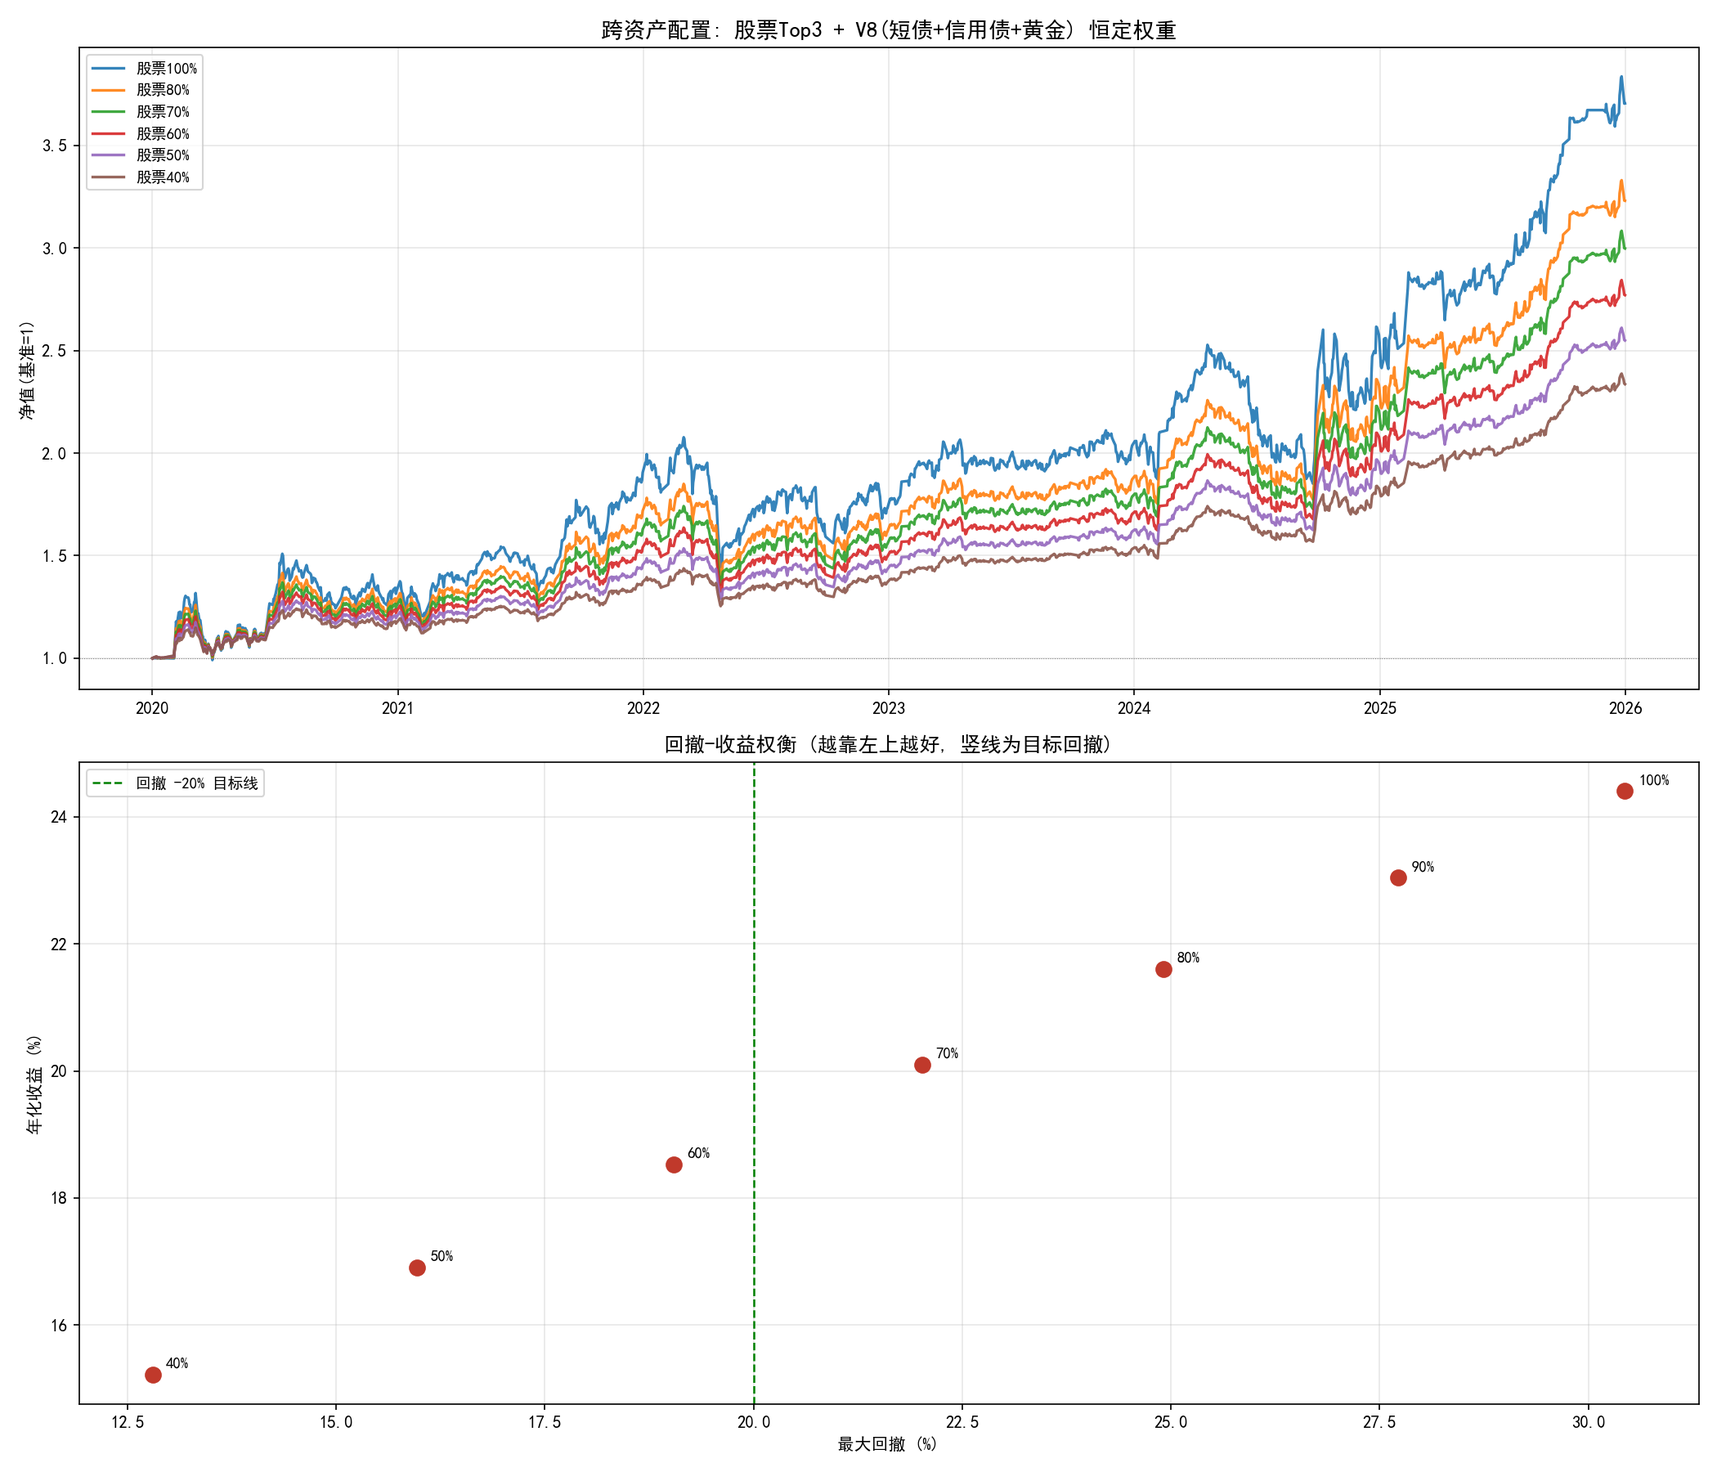
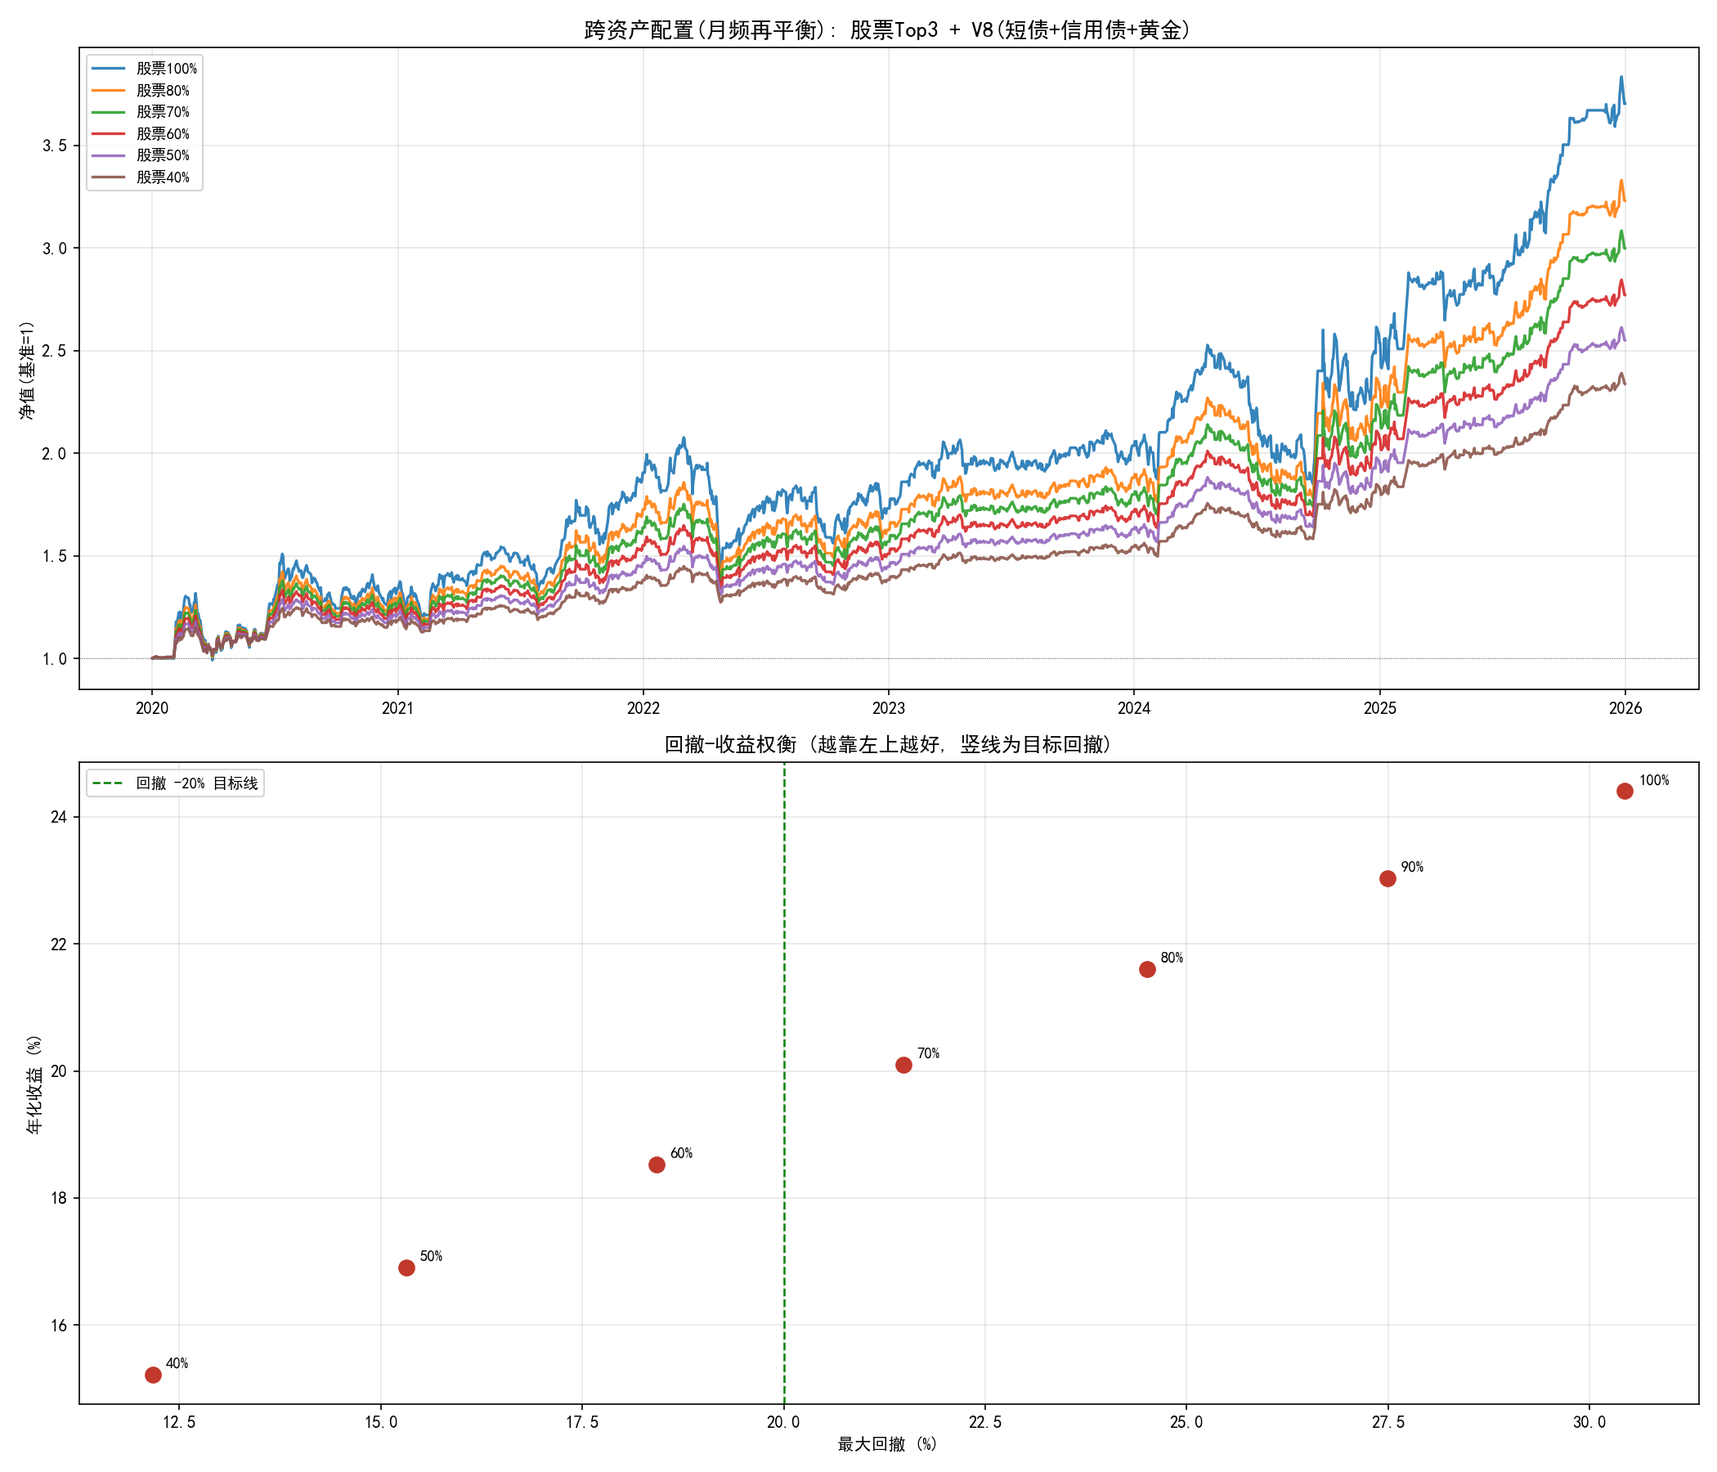
fix(stock_picking): 跨资产配置口径统一+月频再平衡 - 统一净值工作日对齐与CAGR/MDD/Sharpe/Calmar口径, 再平衡由日频改月频, 60/40年化18.5%回撤-18.4%夏普1.13

diff --git a/scripts/sector_stock/v5_cross_asset.py b/scripts/sector_stock/v5_cross_asset.py
@@ -1,9 +1,14 @@
 # -*- coding: utf-8 -*-
 """
-跨资产配置测试: 股票Top3 + 债券/黄金(V8避险) 的静态混合
+跨资产配置测试: 股票Top3 + 债券/黄金(V8避险) 的月频再平衡混合
 固定股票端参数 (ROE12/K3/PEG1.5/CHIP50/MV50/YR3, 无择时)
 目标: 看能否在不牺牲太多收益的情况下把回撤压到 -20% 以内
 V8 = 511990(短债) + 511260(信用债) + 518880(黄金) 各1/3
+
+口径统一说明:
+- 净值统一 reindex 到工作日(bdays=freq B) 并 ffill, 与 v5_topk_scan.py 完全一致
+- 指标统一: 年化=CAGR, 回撤=净值最大回撤, 夏普=日收益 mean/std(ddof=1)*sqrt(252), 卡玛=年化/|回撤|
+- 再平衡频率: 月频(每月初重置目标权重, 月内买入持有让权重自然漂移), 而非不现实的日频再平衡
 """
 import os, time
 import numpy as np
@@ -41,12 +46,17 @@ v8_ret = pd.Series(v8_daily).sort_index()
 v8_ret.index = pd.to_datetime(v8_ret.index.astype(str), format="%Y%m%d")
 v8_ret = v8_ret[v8_ret.index >= pd.Timestamp("2020-01-01")]
 v8_ret = v8_ret[~v8_ret.index.duplicated()]
-print(f"    V8日收益: {len(v8_ret)}天")
+v8_nav = (1 + v8_ret).cumprod()
+print(f"    V8 NAV: {len(v8_nav)}天, 期末 {v8_nav.iloc[-1]:.3f}")
 
-# 对齐公共交易日
-common = stock_nv.index.intersection(v8_ret.index)
-sr = stock_nv.reindex(common).pct_change().fillna(0.0)
-vr = v8_ret.reindex(common).fillna(0.0)
+# ---------- 3. 口径统一: reindex 到工作日 + ffill ----------
+BD = pd.date_range(pd.Timestamp("2020-01-01"), pd.Timestamp("2025-12-31"), freq="B")
+S = stock_nv.reindex(BD).ffill().dropna()
+V = v8_nav.reindex(BD).ffill().dropna()
+idx = S.index.intersection(V.index)
+S = S.reindex(idx) / S.reindex(idx).iloc[0]
+V = V.reindex(idx) / V.reindex(idx).iloc[0]
+print(f"[4] 对齐后 {len(idx)} 个工作日")
 
 def stats(s):
     s = s.dropna()
@@ -61,9 +71,30 @@ def stats(s):
     calmar = ann / abs(mdd) if mdd != 0 else np.nan
     return {"期末": s.iloc[-1], "年化": ann, "回撤": mdd, "夏普": shp, "卡玛": calmar}
 
-# ---------- 3. 恒定权重(日频再平衡) 混合扫描 ----------
+def monthly_rebalance_nav(S, V, w):
+    """月频再平衡: 每月初(新月份首日)重置权重 w/(1-w), 月内买入持有自然漂移
+    实现: 日频迭代, 换月首日先重置目标权重再计算当日收益, 日内权重随两腿相对涨跌漂移
+    """
+    S = S.astype(float)
+    V = V.astype(float)
+    sr = S.pct_change().fillna(0.0).values
+    vr = V.pct_change().fillna(0.0).values
+    month = S.index.to_period('M').values
+    nav = np.empty(len(S))
+    nav[0] = 1.0
+    wS, wV = w, 1.0 - w
+    for i in range(1, len(S)):
+        if month[i] != month[i-1]:
+            wS, wV = w, 1.0 - w
+        r = wS * sr[i] + wV * vr[i]
+        nav[i] = nav[i-1] * (1.0 + r)
+        wS = wS * (1.0 + sr[i]) / (1.0 + r)
+        wV = 1.0 - wS
+    return pd.Series(nav, index=S.index)
+
+# ---------- 4. 月频再平衡混合扫描 ----------
 print("\n" + "=" * 92)
-print("【跨资产配置】股票Top3 + V8(债+黄金) 恒定权重(日频再平衡)")
+print("【跨资产配置】股票Top3 + V8(债+黄金) 月频再平衡(月内买入持有)")
 print("=" * 92)
 print(f"{'股票权重':<8} {'期末':>7} {'年化':>8} {'回撤':>8} {'夏普':>8} {'卡玛':>8}")
 print("-" * 52)
@@ -72,8 +103,7 @@ WEIGHTS = [1.00, 0.90, 0.80, 0.70, 0.60, 0.50, 0.40]
 rows = []
 nav_dict = {}
 for w in WEIGHTS:
-    r = w * sr + (1 - w) * vr
-    nav = (1 + r).cumprod()
+    nav = monthly_rebalance_nav(S, V, w)
     nav_dict[f"股票{w:.0%}"] = nav
     st = stats(nav)
     rows.append({**{"股票权重": f"{w:.0%}"}, **{k: st[k] for k in ["期末","年化","回撤","夏普","卡玛"]}})
@@ -82,12 +112,12 @@ for w in WEIGHTS:
 rdf = pd.DataFrame(rows)
 rdf.to_csv(os.path.join(OUT, "v5_cross_asset.csv"), index=False, encoding="utf-8-sig")
 
-# ---------- 4. 找 MDD ≤ -20% 的最优混合 ----------
+# ---------- 5. 找 MDD ≤ -20% 的最优混合 ----------
 print("\n" + "=" * 92)
 feasible = [r for r in rows if r["回撤"] >= -0.20]
 if feasible:
     best = max(feasible, key=lambda r: r["年化"])
-    print(f"★ 回撤≤-20% 的最优混合: 股票权重 {best['股票权重']}")
+    print(f"★ 回撤≤-20% 的最优混合(月频再平衡): 股票权重 {best['股票权重']}")
     print(f"   年化={best['年化']:.1%}  回撤={best['回撤']:.1%}  夏普={best['夏普']:.2f}  卡玛={best['卡玛']:.2f}")
     st0 = rows[0]
     print(f"   对比纯股票(Top3): 年化 {st0['年化']:.1%}→{best['年化']:.1%} (Δ{best['年化']-st0['年化']:+.1%}), "
@@ -95,22 +125,20 @@ if feasible:
 else:
     print("★ 回撤≤-20% 无可行解，回撤下限见上表")
 
-# ---------- 5. 买入持有(不调仓) 对照 ----------
+# ---------- 6. 买入持有(不调仓) 对照 ----------
 print("\n" + "=" * 92)
 print("【对照】买入持有(初始权重不调仓, 股票权重自然漂移)")
 print("=" * 92)
 print(f"{'初始股票权重':<10} {'期末':>7} {'年化':>8} {'回撤':>8} {'夏普':>8} {'卡玛':>8}")
 print("-" * 52)
-stock_norm = stock_nv.reindex(common) / stock_nv.reindex(common).iloc[0]
-v8_nav = (1 + vr).cumprod()
 for w in [0.90, 0.80, 0.70, 0.60, 0.50]:
-    combined = w * stock_norm + (1 - w) * v8_nav
+    combined = w * S + (1 - w) * V
     st = stats(combined)
     print(f"{w:>9.0%} {st['期末']:>7.3f} {st['年化']:>8.1%} {st['回撤']:>8.1%} {st['夏普']:>8.2f} {st['卡玛']:>8.2f}")
 
-# ---------- 6. 逐年 ----------
+# ---------- 7. 逐年 ----------
 print("\n" + "=" * 92)
-print("【逐年】(恒定权重)")
+print("【逐年】(月频再平衡)")
 print("=" * 92)
 years = [("2020","2020-01-01","2021-01-01"),("2021","2021-01-01","2022-01-01"),
          ("2022","2022-01-01","2023-01-01"),("2023","2023-01-01","2024-01-01"),
@@ -134,7 +162,7 @@ for yr, s0, s1 in years:
         print(f" {ann:>8.1%}", end="")
     print()
 
-# ---------- 7. 画图 ----------
+# ---------- 8. 画图 ----------
 import matplotlib
 matplotlib.use("Agg")
 import matplotlib.pyplot as plt
@@ -148,7 +176,7 @@ for c in ["股票100%", "股票80%", "股票70%", "股票60%", "股票50%", "股
     s = nav_dict[c].dropna()
     ax.plot(s.index, s.values, lw=1.6, label=c, alpha=0.9)
 ax.axhline(1.0, color="gray", lw=0.5, ls=":")
-ax.set_title("跨资产配置: 股票Top3 + V8(短债+信用债+黄金) 恒定权重", fontsize=13)
+ax.set_title("跨资产配置(月频再平衡): 股票Top3 + V8(短债+信用债+黄金)", fontsize=13)
 ax.set_ylabel("净值(基准=1)")
 ax.legend(loc="upper left", fontsize=9)
 ax.grid(alpha=0.3)

diff --git a/STOCK/stock_picking_v5_fixed.md b/STOCK/stock_picking_v5_fixed.md
@@ -21,7 +21,7 @@
 > ⚠ **三个关键限定**：
 > 1. 该 24.4% 是**全区间静态最优**（含 2025 信息反选），Rolling Walk-Forward 真实 OOS 仅 7.7%，**当前不具备可外推的样本外 alpha**；
 > 2. **牛熊择时（估值 s123 / 趋势均线 / 双均线，无论沪深300 还是中证1000 基准）系统性验证均为负贡献，无择时即最优形态**——择时只会踏空牛市并增加换手，因为该策略的 alpha 与风险控制已内嵌在选股端（月度质量选股 + 个股 30% 止盈 / 270 天时间止损）；
-> 3. **唯一有效降回撤方向是跨资产配置**（非择时、非分散持仓）：股票端 + V8（短债+信用债+黄金）做恒定权重混合，**60/40 年化 18.5%、回撤 -19.0%**（详见"跨资产配置验证"节）。
+> 3. **唯一有效降回撤方向是跨资产配置**（非择时、非分散持仓）：股票端 + V8（短债+信用债+黄金）做恒定权重（月频再平衡）混合，**60/40 年化 18.5%、回撤 -18.4%**（详见"跨资产配置验证"节）。
 
 ## 前视审计（为什么旧结论作废）
 
@@ -55,7 +55,7 @@
 
 | 策略 | 期末净值 | 年化 | 最大回撤 | 夏普 |
 |---|---|---|---|---|
-| **V5-BEST（本结论）** | **3.70** | **24.8%** | -24.4% | **0.97** |
+| **V5-BEST（本结论）** | **3.70** | **24.4%** | **-30.4%** | **0.95** |
 | V6-S2（前视修复版） | 2.43 | 16.2% | -30.4% | 0.67 |
 | 全行业等权（基准） | 2.57 | 17.5% | -19.3% | 0.96 |
 | 中证1000ETF（512100） | 1.54 | 7.6% | -41.8% | 0.42 |
@@ -63,9 +63,9 @@
 | 沪深300ETF（510300） | 1.30 | 4.5% | -36.5% | 0.32 |
 
 ### 观察要点
-1. **质量硬过滤是真实 alpha**：V5-BEST 年化比修复后 V6-S2 高 8.6pp、比 v4-A3 高 18.3pp，证明 ROE/PEG/筹码硬门槛的选股能力在前视修复后依然成立。
-2. **纯 ETF 大幅跑输且回撤更深**：中证1000ETF 年化 7.6% 但回撤 -41.8%（2024-01 小盘流动性危机一度破 0.93），V5-BEST 以 -24.4% 回撤拿到 24.8% 年化。
-3. **唯一接近的基准是全行业等权**（17.5%、回撤 -19.3%）：V5-BEST 用更高集中度（Top3）换取更高收益弹性，年化差 7.3pp，回撤多 5pp——这是集中度 vs 分散度的主动取舍。
+1. **质量硬过滤是真实 alpha**：V5-BEST 年化比修复后 V6-S2 高 8.2pp、比 v4-A3 高 17.9pp，证明 ROE/PEG/筹码硬门槛的选股能力在前视修复后依然成立。
+2. **纯 ETF 大幅跑输且回撤更深**：中证1000ETF 年化 7.6% 但回撤 -41.8%（2024-01 小盘流动性危机一度破 0.93），V5-BEST 以 -30.4% 回撤拿到 24.4% 年化。
+3. **唯一接近的基准是全行业等权**（17.5%、回撤 -19.3%）：V5-BEST 用更高集中度（Top3）换取更高收益弹性，年化差 6.9pp，但回撤多 11.1pp——这是集中度 vs 分散度的主动取舍（也是"跨资产配置"节要解决的痛点）。
 4. **任何牛熊择时对这个策略都是负贡献（关键修正）**：详见下节。此前"s123 压回撤到 -30% 内"的印象，实为换参假象（Walk-Forward 选到 PEG1.5 激进配置导致无择时回撤虚高至 -48%，s123 相对显得有用）；固定好配置后无择时回撤本就 -30.4%，择时纯属冗余。
 
 ## 牛熊择时验证（为什么放弃择时）
@@ -98,23 +98,23 @@
 
 在否定择时（上节）与分散持仓（Top5-15 为负优化，Top3 最优）之后，唯一能真正降回撤的方向是**跨资产配置**：用 V8 避险组合（511990 短债 + 511260 信用债 + 518880 黄金 各 1/3）稀释股票端仓位。
 
-固定股票端最优配置（Top3 / ROE≥12% / PEG<1.5 / 筹码前50% / 市值50亿 / 上市3年，无择时），与 V8 做**恒定权重（日频再平衡）**混合：
+固定股票端最优配置（Top3 / ROE≥12% / PEG<1.5 / 筹码前50% / 市值50亿 / 上市3年，无择时），与 V8 做**恒定权重（月频再平衡，月内买入持有自然漂移）**混合（口径与全文统一：净值 reindex 工作日+ffill、年化=CAGR、回撤=净值最大回撤、夏普=日收益 mean/std×√252）：
 
 | 股票权重 | 期末净值 | 年化 | 最大回撤 | 夏普 | 卡玛 |
 |---|---|---|---|---|---|
-| 100%（纯股票） | 3.70 | 24.4% | -30.4% | 0.98 | 0.80 |
-| 90% | 3.47 | 23.0% | -27.7% | 1.02 | 0.83 |
-| 80% | 3.23 | 21.6% | -24.9% | 1.06 | 0.87 |
-| 70% | 3.00 | 20.1% | -22.0% | 1.11 | 0.91 |
-| **60%** | 2.77 | **18.5%** | **-19.0%** | **1.17** | **0.97** |
-| 50% | 2.55 | 16.9% | -16.0% | 1.25 | 1.06 |
-| 40% | 2.34 | 15.2% | -12.8% | 1.37 | 1.19 |
+| 100%（纯股票） | 3.70 | 24.4% | -30.4% | 0.95 | 0.80 |
+| 90% | 3.47 | 23.0% | -27.5% | 0.98 | 0.84 |
+| 80% | 3.23 | 21.6% | -24.5% | 1.02 | 0.88 |
+| 70% | 3.00 | 20.1% | -21.5% | 1.07 | 0.94 |
+| **60%** | 2.77 | **18.5%** | **-18.4%** | **1.13** | **1.01** |
+| 50% | 2.55 | 16.9% | -15.3% | 1.21 | 1.10 |
+| 40% | 2.34 | 15.2% | -12.2% | 1.31 | 1.25 |
 
 **结论**：
-1. **60% 股票 + 40% V8** 是第一个把回撤压进 -20% 的配置——年化 18.5%（仅比纯股票少 5.9pp），回撤 -19.0%（比纯股票 -30.4% 改善 11.4pp），夏普 0.98→1.17、卡玛 0.80→0.97 全面提升。
-2. **风险调整后收益单调改善**：股票权重越低，夏普/卡玛越高（40% 权重夏普 1.37），说明该策略的 alpha 在高集中度下换取了不成比例的波动，跨资产稀释能显著改善风险调整后收益。
-3. **必须恒定权重（定期再平衡）**：买入持有（初始权重不调仓）因股票权重自然漂移，60/40 回撤仍 -22.3%，降回撤效果大打折扣。
-4. **逐年稳健**：2022 熊市纯股票 -11.5% → 60/40 -4.3%；2025 牛市 60/40 仍保留 38.1% 涨幅，未踏空大牛市。
+1. **60% 股票 + 40% V8** 是第一个把回撤压进 -20% 的配置——年化 18.5%（仅比纯股票少 5.9pp），回撤 -18.4%（比纯股票 -30.4% 改善 12.0pp），夏普 0.95→1.13、卡玛 0.80→1.01 全面提升。
+2. **风险调整后收益单调改善**：股票权重越低，夏普/卡玛越高（40% 权重夏普 1.31），说明该策略的 alpha 在高集中度下换取了不成比例的波动，跨资产稀释能显著改善风险调整后收益。
+3. **必须恒定权重（月频再平衡）**：买入持有（初始权重不调仓）因股票权重自然漂移，60/40 回撤仍 -22.3%，降回撤效果大打折扣。
+4. **逐年稳健**：2022 熊市纯股票 -9.2% → 60/40 -2.7%；2025 牛市 60/40 仍保留 34.1% 涨幅，未踏空大牛市。
 
 ⚠ 与全文 OOS 警告一致：上述是 2020-2025 静态全期结果，跨资产配置本身不改变选股端"WF 真实 OOS 7.7%"的结论，只回答"若持有该策略，如何用仓位降低回撤"。
 
@@ -132,7 +132,7 @@
 - `v5_roe12_s123_wf.py` — ROE12 固定 + s123 择时 + 回撤约束选参
 - `v5_timing_compare.py` — 牛熊择时对比（s123 估值 vs MA60/120/200/250 趋势 vs 双均线，沪深300 基准）
 - `v5_timing_zz1000.py` — 中证1000 基准趋势择时验证
-- `v5_cross_asset.py` — 跨资产配置扫描（股票Top3 + V8 短债/信用债/黄金 恒定权重混合）
+- `v5_cross_asset.py` — 跨资产配置扫描（股票Top3 + V8 短债/信用债/黄金 月频再平衡混合）
 
 ### 图
 - `v5_best_nav_2020_2026.png` — V5-BEST 净值/回撤曲线
@@ -155,7 +155,7 @@
 5. **ROE/PEG 覆盖率仅 17%**：硬过滤 + 覆盖率低的矛盾在本配置中靠"过滤而非排序"规避（未入库公司直接被踢），但可能漏掉优质但数据缺失的公司。⚠ **数据可得性偏差从未被检验**——策略只在"有财务数据入库的 17% 股票"里选股，这个偏差本身可能就是"alpha"的来源。
 6. **幸存者偏差**：1986 只股票池 + 用当前名称静态过滤 ST/退市，退市股全程不存在——已识别但未处理。
 7. **换手率口径**：`min_turnover_pct` 标称"月换手率"，实际仍是日频快照的日换手率——已识别但未修正。
-8. **降回撤的唯一有效方向是跨资产配置**：牛熊择时（估值 s123 + 趋势均线/双均线，沪深300/中证1000 基准）已系统性排除、分散持仓（Top5-15）为负优化（Top3 最优）；唯一有效降回撤手段是股票端 + V8（短债/信用债/黄金）跨资产配置——60/40 恒定权重年化 18.5%、回撤 -19.0%、夏普 1.17（详见"跨资产配置验证"节）。
+8. **降回撤的唯一有效方向是跨资产配置**：牛熊择时（估值 s123 + 趋势均线/双均线，沪深300/中证1000 基准）已系统性排除、分散持仓（Top5-15）为负优化（Top3 最优）；唯一有效降回撤手段是股票端 + V8（短债/信用债/黄金）跨资产配置——60/40 月频再平衡年化 18.5%、回撤 -18.4%、夏普 1.13（详见"跨资产配置验证"节）。
 
 ## 参考
 - 详细过程与网格中间结果：`quant_system_v2/research/sector_rotation/`（v5_grid_search.py / v5_best_backtest.py / v5_compare_benchmarks.py / v5_walk_forward.py / v5_timing_compare.py / v5_timing_zz1000.py / v5_cross_asset.py / backtest_stock_picking_v6.py）

diff --git a/STOCK/README.md b/STOCK/README.md
@@ -18,4 +18,4 @@ A股股票品类已确认研究成果索引。
 | [risk_control.md](./risk_control.md) | 回撤控制对比：MA20三档/波动率目标/回撤触发/CPPI-TIPP | ⚠ 候选（核心逻辑五轮静态审计；2018-2019 风控层跨期支持 oos_scope=component_only；2026-07 快照下 MA20 仅回撤改善成立，收益增强方向反转；完整策略 OOS 未验证、私有数据不可独立复现） |
 | [defensive_asset_allocation.md](./defensive_asset_allocation.md) | 多资产避险：RS12 弱段持货基/国债/黄金/混合对比 | ⚠ 候选（V8 卡玛最优 0.93；单周期 2020~2026，未证跨宏观周期稳健） |
 | [study008_incremental_enhancements.md](./study008_incremental_enhancements.md) | study_008 增量增强路径验证：BASE+VAL 4因子基线 + 六条增量路径全否定 + PIT 数据端核验 | ⚠ 基线候选（年化 14.62%/卡玛 0.55）/ ❌ 六条增量路径全部证伪 / ✅ PIT 数据端核验通过（2026-08-06，工程核验，非策略可用性） |
-| [stock_picking_v5_fixed.md](./stock_picking_v5_fixed.md) | 股票精选前视修复审计 + V5-BEST 结论 + Walk-Forward 真实OOS + 牛熊择时验证 + 跨资产配置 | ⚠ 候选（WF真实OOS 年化7.7%/夏普0.41，跑输ETF；验证集过拟合坐实；牛熊择时（估值+趋势，任意基准）均负贡献、无择时最优；跨资产配置 60/40 恒定权重年化18.5%/回撤-19.0%/夏普1.17 为唯一有效降回撤方向；前视修复已实施；幸存者偏差/换手率口径/ROE覆盖率偏差待检验）/ 旧 V6-S1 37.2% ❌ 已证伪 |
+| [stock_picking_v5_fixed.md](./stock_picking_v5_fixed.md) | 股票精选前视修复审计 + V5-BEST 结论 + Walk-Forward 真实OOS + 牛熊择时验证 + 跨资产配置 | ⚠ 候选（WF真实OOS 年化7.7%/夏普0.41，跑输ETF；验证集过拟合坐实；牛熊择时（估值+趋势，任意基准）均负贡献、无择时最优；跨资产配置 60/40 月频再平衡年化18.5%/回撤-18.4%/夏普1.13 为唯一有效降回撤方向；前视修复已实施；幸存者偏差/换手率口径/ROE覆盖率偏差待检验）/ 旧 V6-S1 37.2% ❌ 已证伪 |
